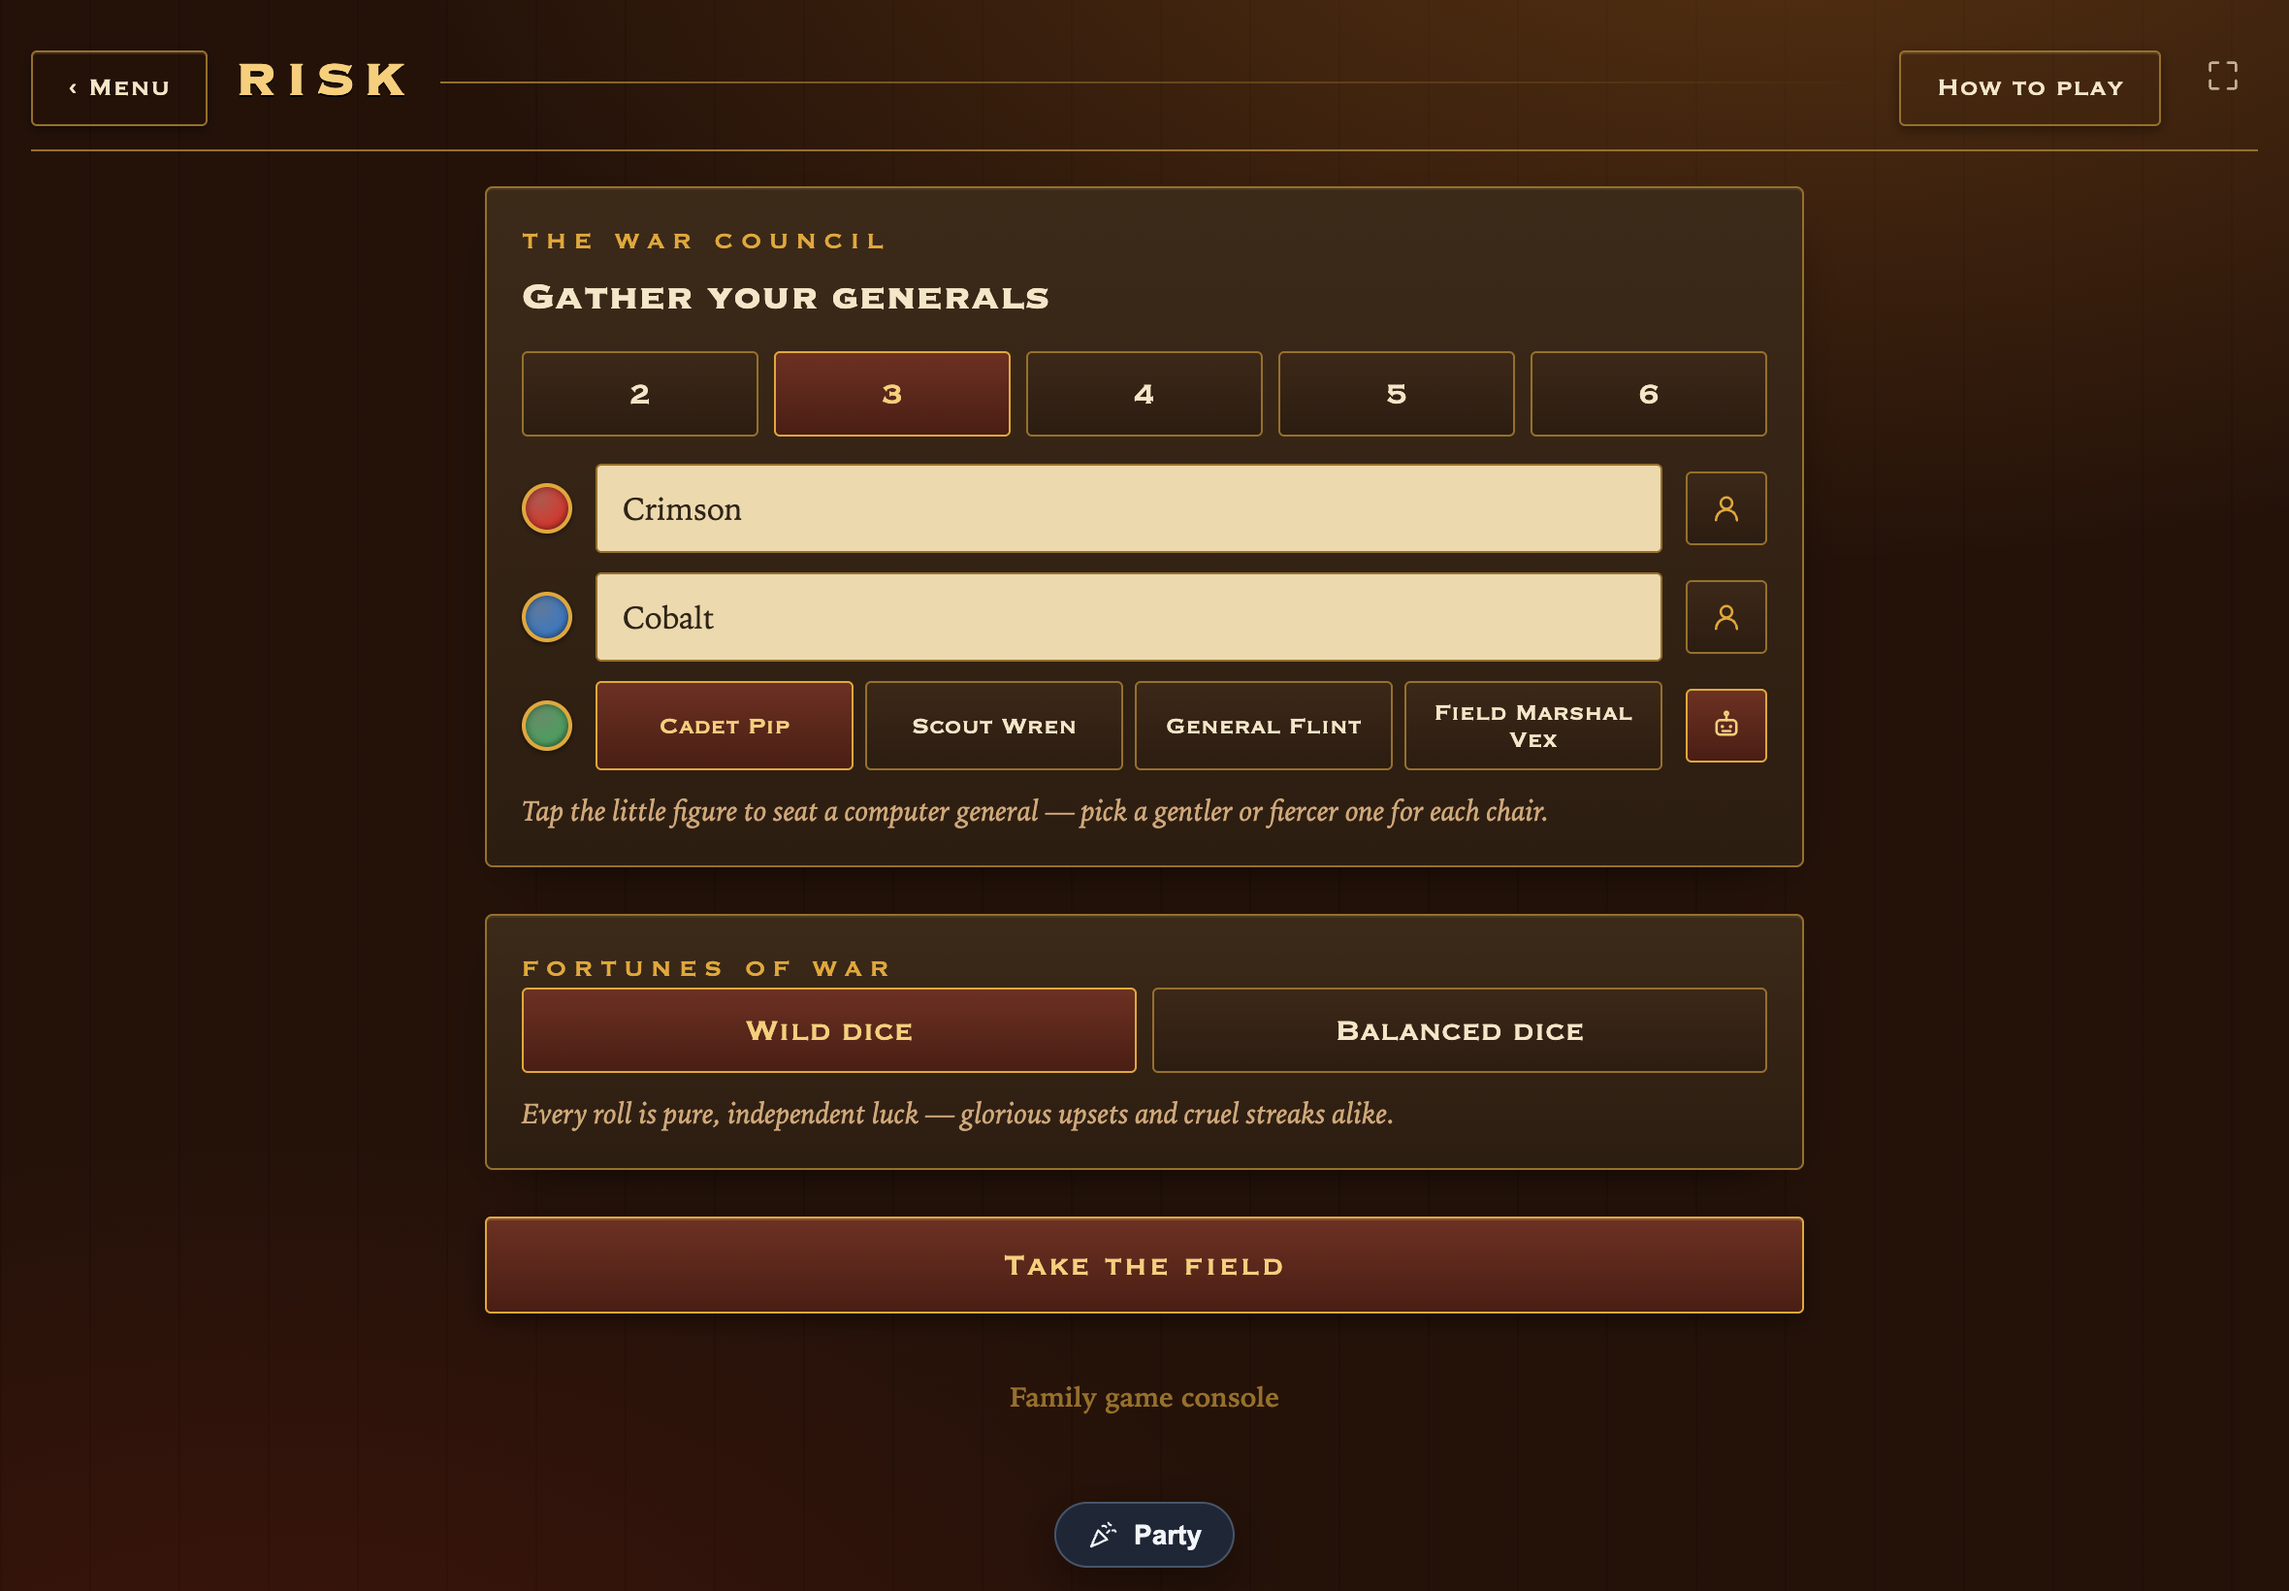
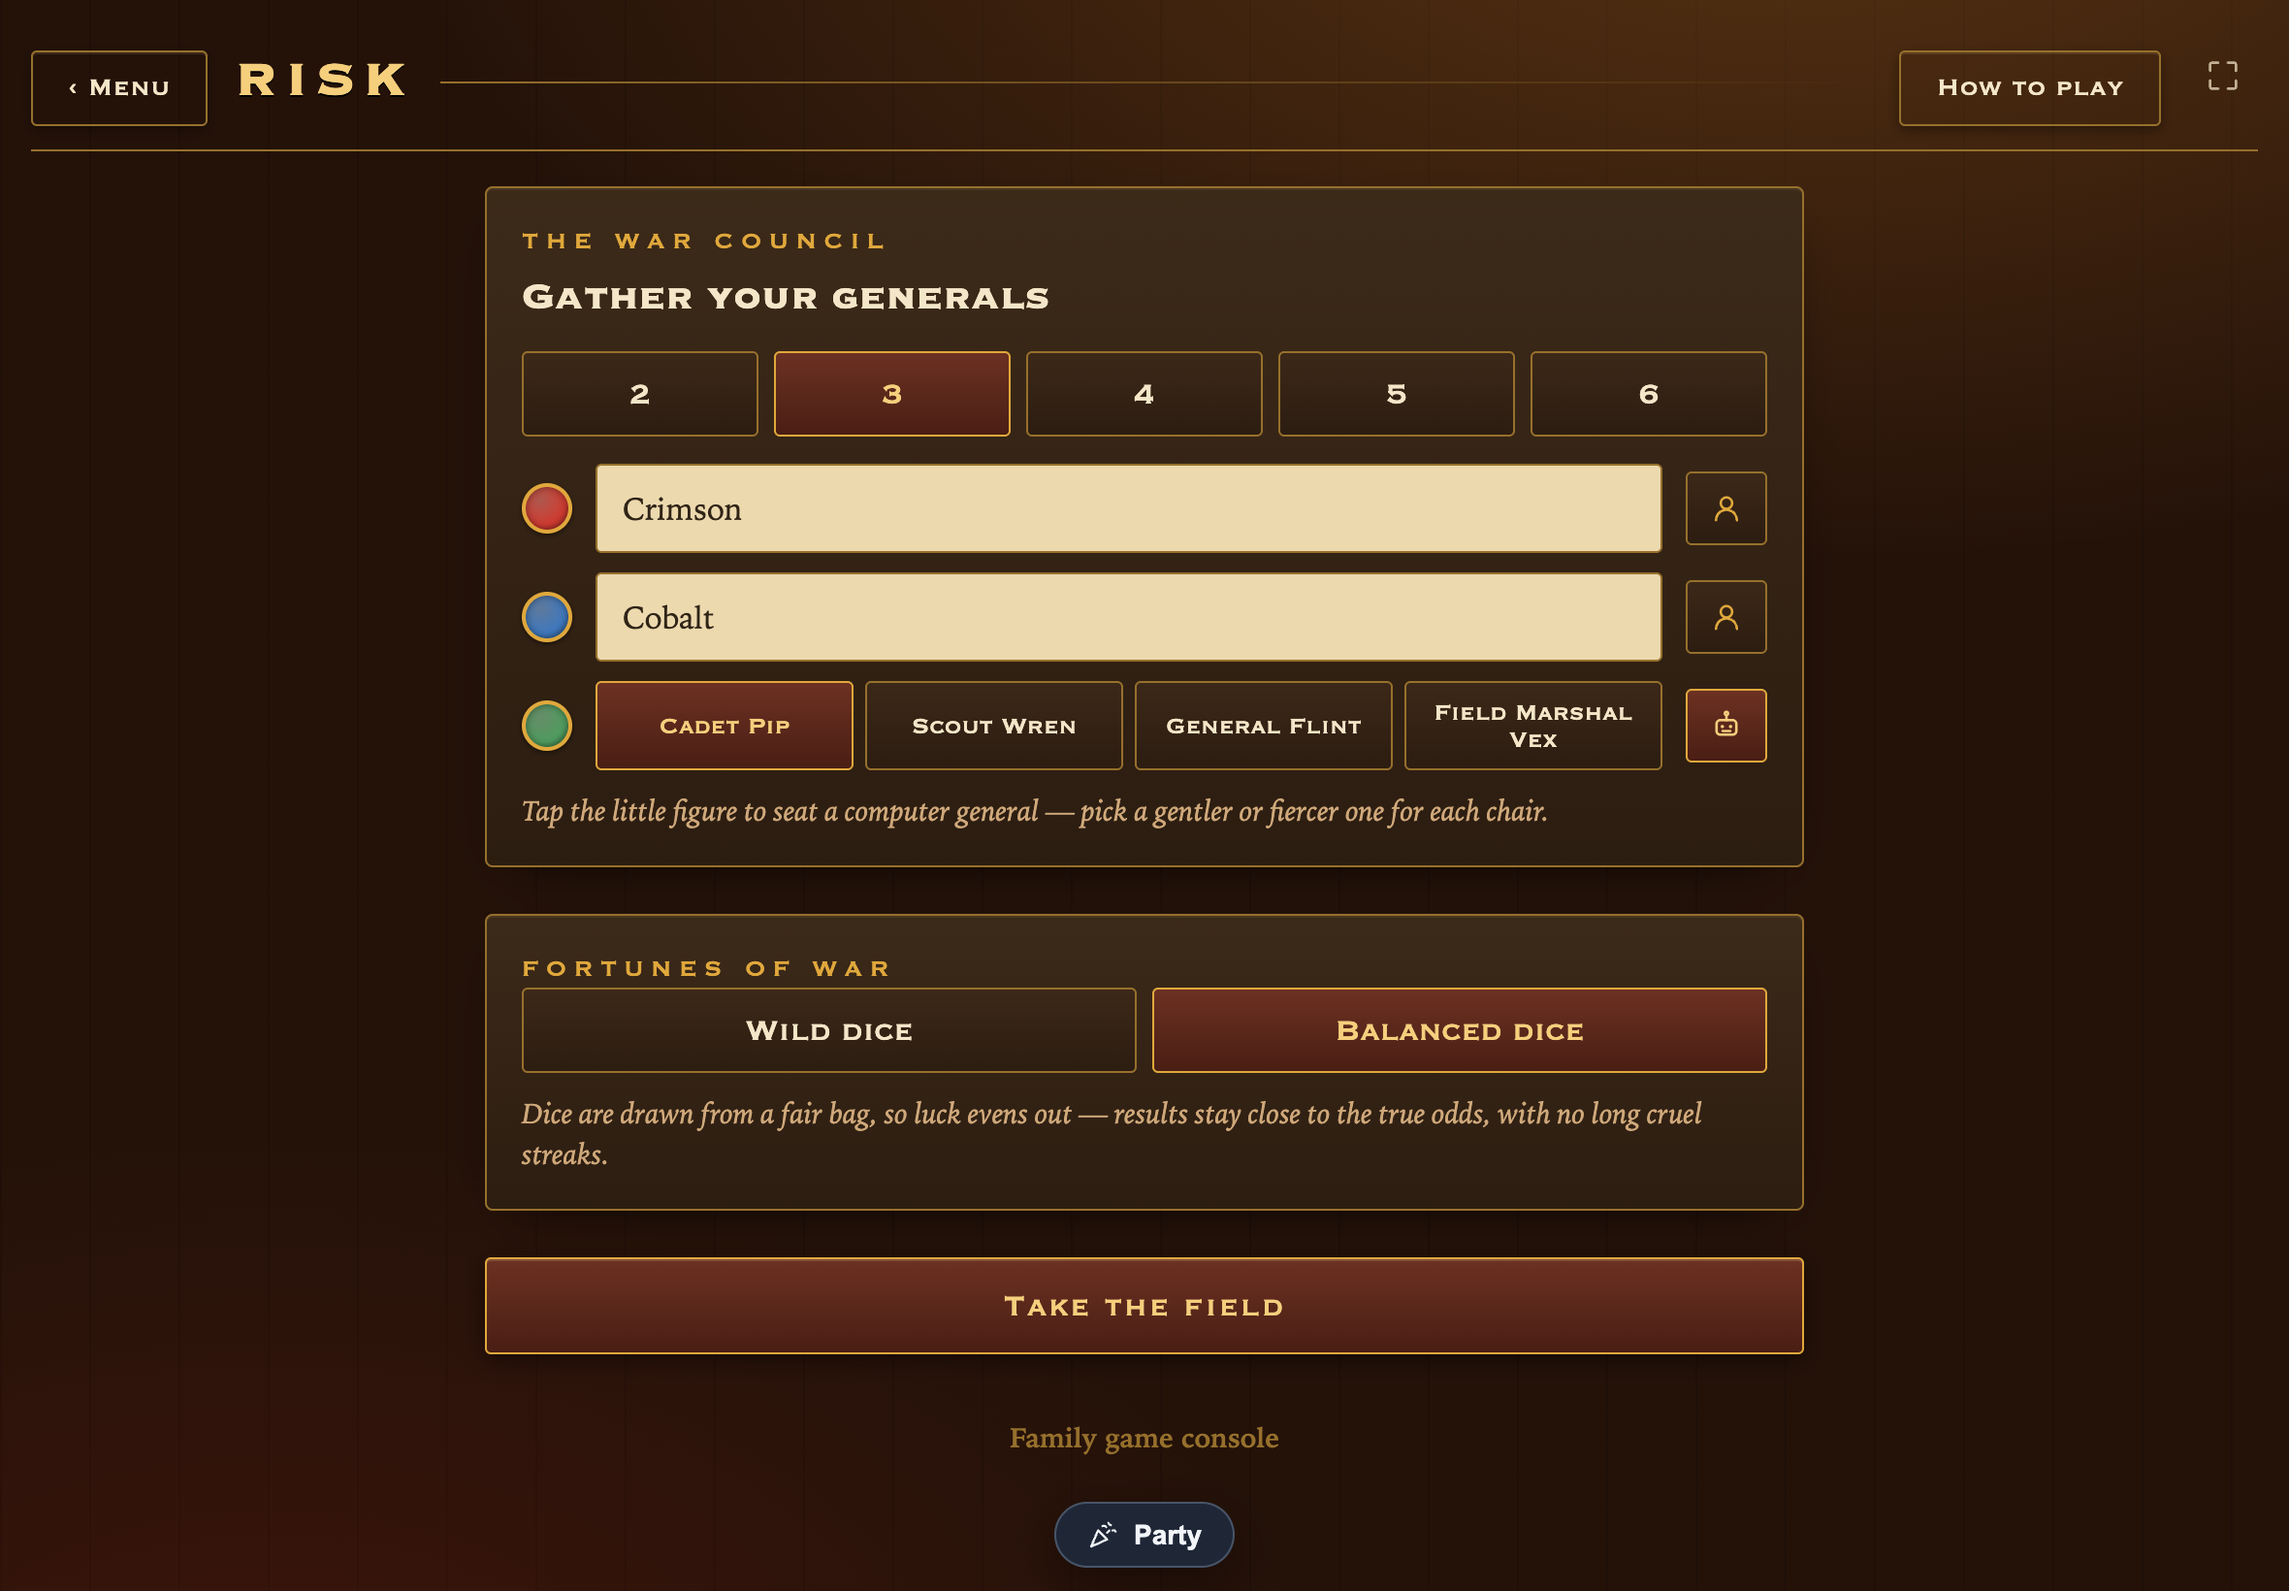
tune(risk): balanced dice default, meatier stacks, no more tofu box
Three war-room requests from the family:

- Balanced dice is now the default (pure random stays one tap away).
  The loaded-dice page test pins wild mode explicitly, since balanced
  bag shuffles would consume its rigged sequence.
- Starting armies: your share of the map plus FIFTEEN (was eight) -
  "enough to fill the board, then fifteen more." On the world map
  that is 29 at three players, 36 at two.
- The mysterious square box on the board was the zoom-reset button:
  the fit-view glyph (U+2922) is missing from several family-tablet
  fonts and rendered as tofu. It is the shared FullscreenExitIcon
  SVG now - per the house rule that icons are SVG, never glyphs.

The racer reconnect flake fired a third time on the full suite
(565/565 on re-run). It is next in the queue as its own fix.

Gates on bare exit codes: check 0, vitest 0 (565/565), build 0;
risk screenshots regenerated.

Claude-Session: https://claude.ai/code/session_0146VWPAYsAFebJ5DNhYKXg7

Changed region(s): [[0.2165, 0.622, 0.8042, 0.9329]]

diff --git a/src/games/risk/components/RiskPage.tsx b/src/games/risk/components/RiskPage.tsx
@@ -12,7 +12,7 @@ import { clearRiskGame, loadRiskGame, type StoredRisk } from '../storage/riskPer
 // Persona metadata only — the bot BRAIN stays behind the dynamic import in
 // useRisk, so human-only campaigns never download it.
 import { personaById, RISK_PERSONAS } from '../domain/bots/personas';
-import { BotIcon, PersonIcon, ResumeIcon } from '@shared/ui/icons';
+import { BotIcon, FullscreenExitIcon, PersonIcon, ResumeIcon } from '@shared/ui/icons';
 import type { BattleResult, DiceMode, GameState } from '../domain/types';
 
 // Heraldic tinctures — a general's banner. Kept bright enough that the dark
@@ -44,7 +44,9 @@ export function RiskPage() {
   const [names, setNames] = useState<string[]>(PLAYER_NAMES.slice());
   // Persona id per seat, or null for a human chair.
   const [seats, setSeats] = useState<(string | null)[]>(Array(6).fill(null));
-  const [diceMode, setDiceMode] = useState<DiceMode>('random');
+  // Balanced by default — the family prefers luck that evens out; pure random
+  // stays one tap away for anyone chasing glorious upsets.
+  const [diceMode, setDiceMode] = useState<DiceMode>('balanced');
 
   const risk = useRisk();
   const { map, state, sel, dest, moveCount, battle, targets } = risk;
@@ -294,7 +296,11 @@ export function RiskPage() {
         <div className="risk-zoomctl">
           <button onClick={zoom.zoomIn} disabled={!zoom.canZoomIn} aria-label="Zoom in" data-testid="risk-zoom-in">+</button>
           <button onClick={zoom.zoomOut} disabled={!zoom.canZoomOut} aria-label="Zoom out" data-testid="risk-zoom-out">−</button>
-          <button onClick={zoom.reset} disabled={zoom.isDefault} aria-label="Show the whole map" data-testid="risk-zoom-reset">⤢</button>
+          {/* SVG, not the ⤢ glyph — that codepoint is missing from several
+              family-tablet fonts and rendered as a tofu box mid-game. */}
+          <button onClick={zoom.reset} disabled={zoom.isDefault} aria-label="Show the whole map" data-testid="risk-zoom-reset">
+            <FullscreenExitIcon size={18} />
+          </button>
         </div>
 
         {/* The plaque wears the active general's colour — since the ring around

diff --git a/src/games/risk/domain/rules.test.ts b/src/games/risk/domain/rules.test.ts
@@ -76,9 +76,9 @@ describe('newGame', () => {
     expect(hasUnclaimed(g)).toBe(true);
     expect(g.phase).toBe('setup');
     expect(g.current).toBe(0);
-    // 2 players on 6 lands → your share of the map (3) plus 8 to stack = 11.
-    expect(g.toPlace).toBe(11);
-    expect(deployReserve(g, 1)).toBe(11);
+    // 2 players on 6 lands → your share of the map (3) plus 15 to stack = 18.
+    expect(g.toPlace).toBe(18);
+    expect(deployReserve(g, 1)).toBe(18);
   });
 
   it('carries a computer persona through to the player state', () => {
@@ -106,8 +106,8 @@ describe('setup — claim then deploy, one army per turn', () => {
     g = placeArmy(g, 'a', MAP);
     expect(g.territories.a).toEqual({ owner: 0, armies: 1 });
     expect(g.current).toBe(1); // play passed straight on
-    expect(g.toPlace).toBe(11); // player 1's whole reserve
-    expect(deployReserve(g, 0)).toBe(10);
+    expect(g.toPlace).toBe(18); // player 1's whole reserve
+    expect(deployReserve(g, 0)).toBe(17);
 
     // Player 1 cannot steal a claimed land during the claim stage…
     expect(placeArmy(g, 'a', MAP)).toBe(g);
@@ -134,8 +134,8 @@ describe('setup — claim then deploy, one army per turn', () => {
     for (let guard = 0; guard < 200 && g.phase === 'setup'; guard++) g = playOne(g);
     expect(g.phase).toBe('reinforce');
     expect(g.current).toBe(0);
-    expect(armiesOf(g, 0)).toBe(11);
-    expect(armiesOf(g, 1)).toBe(11);
+    expect(armiesOf(g, 0)).toBe(18);
+    expect(armiesOf(g, 1)).toBe(18);
     expect(g.toPlace).toBeGreaterThanOrEqual(3);
   });
 });

diff --git a/src/games/risk/components/RiskPage.test.tsx b/src/games/risk/components/RiskPage.test.tsx
@@ -93,15 +93,15 @@ describe('<RiskPage>', () => {
     expect(localStorage.getItem('risk-campaign-v1')).toBeNull();
   });
 
-  it('offers wild vs balanced dice, defaulting to wild', () => {
+  it('offers wild vs balanced dice, defaulting to balanced', () => {
     renderPage();
-    expect(screen.getByTestId('dice-random').className).toContain('on');
-
-    fireEvent.click(screen.getByTestId('dice-balanced'));
     expect(screen.getByTestId('dice-balanced').className).toContain('on');
-    expect(screen.getByTestId('dice-random').className).not.toContain('on');
 
-    // A balanced game still starts and plays normally.
+    fireEvent.click(screen.getByTestId('dice-random'));
+    expect(screen.getByTestId('dice-random').className).toContain('on');
+    expect(screen.getByTestId('dice-balanced').className).not.toContain('on');
+
+    // A wild-dice game still starts and plays normally.
     fireEvent.click(screen.getByTestId('risk-start'));
     expect(turnText()).toMatch(/picks a land/i);
   });
@@ -230,6 +230,9 @@ describe('<RiskPage>', () => {
 
     renderPage();
     fireEvent.click(screen.getByTestId('count-2'));
+    // Pin wild dice: balanced is the default now, and its bag shuffles would
+    // consume the loaded sequence and drift the split.
+    fireEvent.click(screen.getByTestId('dice-random'));
     fireEvent.click(screen.getByTestId('risk-start'));
     completeDeploy();
 

diff --git a/src/games/risk/domain/rules.ts b/src/games/risk/domain/rules.ts
@@ -23,14 +23,16 @@ import type {
 } from './types';
 
 /**
- * Starting allotment: your share of the map plus eight armies to stack. The
- * classic counts (35 a head at three players) made the opening a hundred-tap
- * slog before anyone got to attack — the family called it out. Eight extras
- * keeps the deploy stage short and the same length at every player count.
+ * Starting allotment: your share of the map plus fifteen armies to stack.
+ * The classic counts (35 a head at three players) made the opening a
+ * hundred-tap slog — the family called it out and we went to eight extras;
+ * a season later they asked for meatier opening stacks ("enough to fill the
+ * board, then fifteen more"). Fifteen it is, still the same length at every
+ * player count.
  */
 function startingArmies(state: GameState): number {
   const lands = Object.keys(state.territories).length;
-  return Math.ceil(lands / state.players.length) + 8;
+  return Math.ceil(lands / state.players.length) + 15;
 }
 
 export interface NewPlayer {
